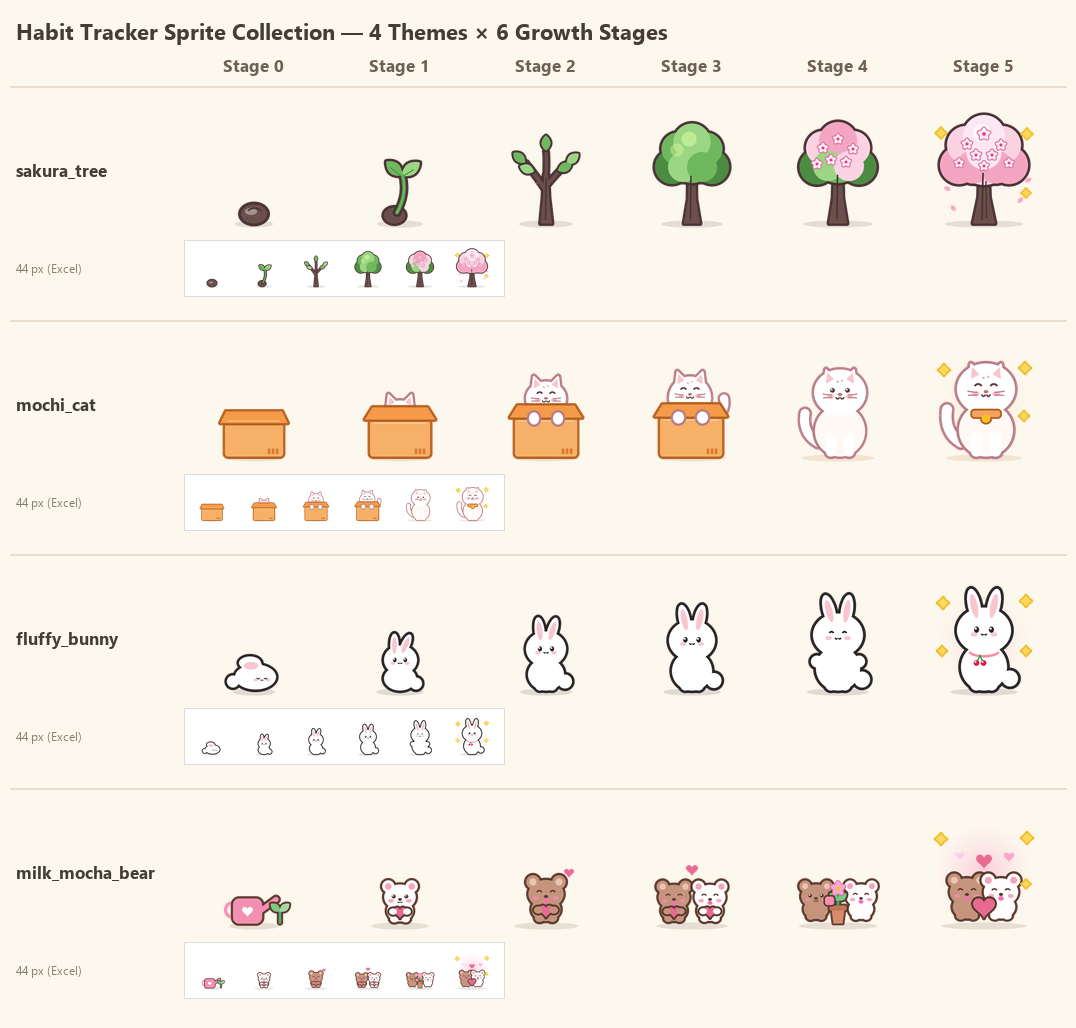
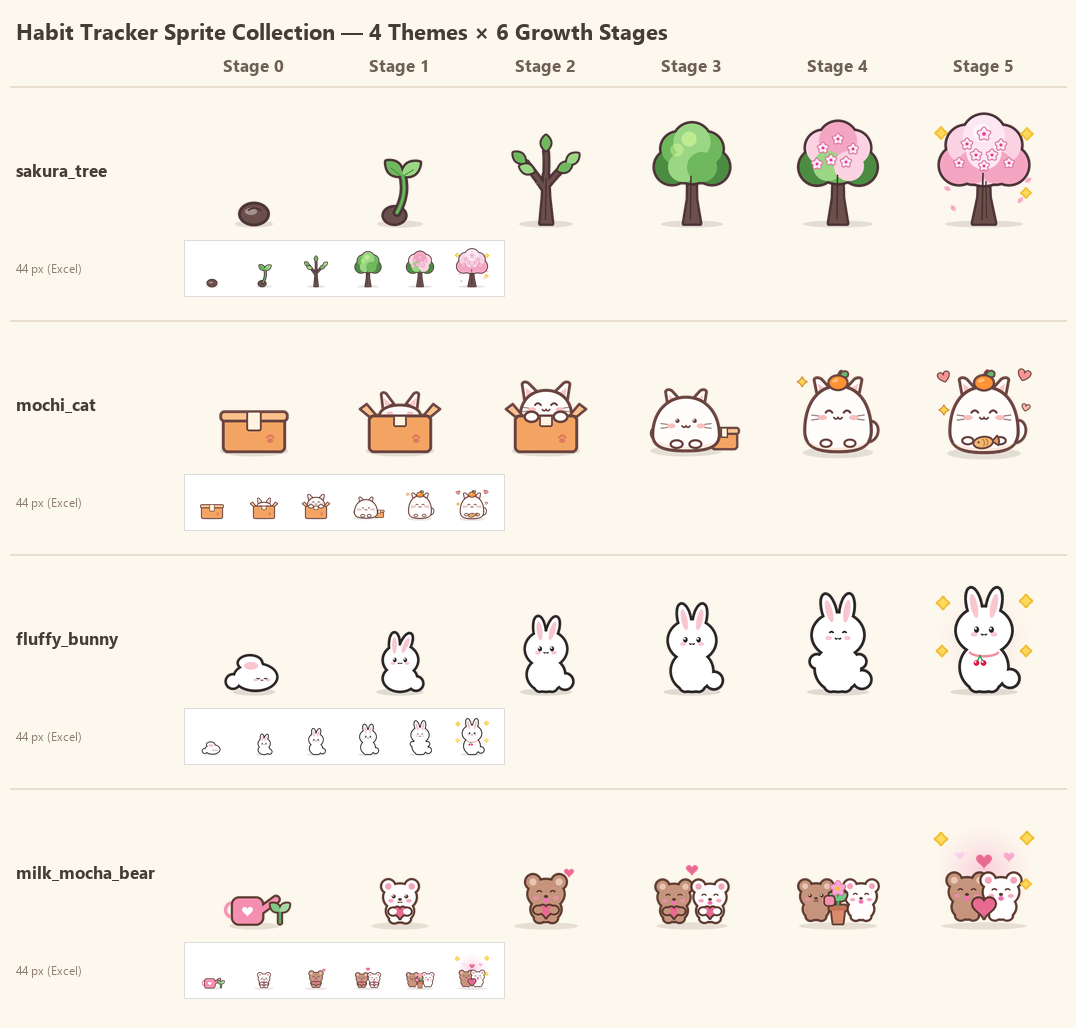
docs: unify v3.6 version strings, refresh stale contact sheets & mobile pet previews, sync installers

diff --git a/README.md b/README.md
@@ -1,7 +1,7 @@
 # 🐻 Habit Tracker Collection for Everyone — by Dyu (v3.6 Turbo — 35 Themes × 4 Editions)
 
 > **Bộ sưu tập 35 mẫu Habit Tracker thẩm mỹ chuẩn Digital Planner — Đủ 4 phiên bản cho Máy tính & Điện thoại (140 file hoàn chỉnh + 210 ảnh hoạt ảnh 6 giai đoạn)!**
-> **MỚI v3.6 TURBO: Tái kiến trúc hoàn toàn động cơ hiệu năng trên toàn bộ 35 file `Pro Interactive (.xlsm)` + tối ưu `google_sheets_1click_setup.gs` — thay thế 100% Camera Linked Pictures chậm chạp bằng Native Sprite Stacks nén 6 PNG duy nhất, chỉ mục `_Database` O(1) thuần VBA (Win & Mac), ghi mảng `.Value2` & Lazy-Flush! Đổi Tháng bằng nút 1 chạm chỉ ~51 ms (nhanh gấp 80×), đổi Ngày chỉ ~40 ms (nhanh gấp 68×), file nhẹ hơn ~30% (~317 KB) mà giữ trọn 100% độ nét & Bộ Hiệu Ứng Pro (Bounce, Sparkle Burst, Toast, Quick-Action Pills)!**
+> **MỚI v3.6 TURBO: Tái kiến trúc hoàn toàn động cơ hiệu năng trên toàn bộ 35 file `Pro Interactive (.xlsm)` + tối ưu `google_sheets_1click_setup.gs` — thay thế 100% Camera Linked Pictures bằng Native Sprite Stacks nén 6 PNG duy nhất, chỉ mục `_Database` O(1) thuần VBA (Win & Mac), ghi mảng `.Value2` & Lazy-Flush! Đổi Tháng bằng nút 1 chạm chỉ ~51 ms (nhanh gấp 80×), đổi Ngày chỉ ~40 ms (nhanh gấp 68×), bổ sung `Ctrl+Z` / nút `↩ Undo` thực thụ, khóa bảo vệ dòng công thức `TOTAL` (`UserInterfaceOnly`) & vẽ lại 36 sprite thú cưng siêu sắc nét (Shiba, Akita, Ginger Kitten, Royal Cat, Starlight Lavender Cat, Mochi Cat)!**
 
 ![Version 3.6 Turbo](https://img.shields.io/badge/Version-3.6_Turbo_35_Themes_x_4_Editions-E86A92?style=for-the-badge)
 ![Pro #1 Recommended](https://img.shields.io/badge/⭐_RECOMMENDED_%231-Pro_Interactive_.XLSM_Turbo_v3.6-217346?style=for-the-badge&logo=microsoftexcel&logoColor=white)
@@ -15,21 +15,22 @@
 
 Nếu bạn dùng **Microsoft Excel trên Windows hoặc macOS**, hãy chọn ngay **`[1] Pro Interactive (.xlsm)`** trong [`templates/pro_macro/`](templates/pro_macro/) để trải nghiệm tốc độ mượt như **App Desktop gốc** hoàn toàn 100% Offline:
 
-- **🚀 Động cơ v3.6 Turbo Performance Engine (Nhanh gấp 20×–80× so với v3.5!):**
-  - **Native Pre-Placed Sprite Stacks + Nén Đúng 6 PNG (`xl/media/`):** Bỏ hoàn toàn 54 Camera-Tool Linked Pictures gây giật lag GDI; thay bằng cụm ảnh PNG gốc siêu nét + bộ đệm so sánh thay đổi (`Stage-Diff Cache`) & tham chiếu Shape O(1) — dung lượng file thậm chí **nhẹ hơn ~30% (~257–347 KB)**!
+- **🚀 Động cơ v3.6 Turbo Performance Engine (Nhanh gấp 20×–80× so với cơ chế Linked Pictures cũ!):**
+  - **Native Pre-Placed Sprite Stacks + Nén Đúng 6 PNG (`xl/media/`):** Bỏ hoàn toàn 54 Camera-Tool Linked Pictures gây giật lag GDI; thay bằng cụm ảnh PNG gốc siêu nét + bộ đệm so sánh thay đổi (`Stage-Diff Cache`) & tham chiếu Shape O(1) — dung lượng file thậm chí **nhẹ hơn ~30% (~257–380 KB)**!
   - **Chỉ mục `_Database` O(1) thuần VBA (`Collection`, tương thích cả Windows & macOS Excel) + `.Value2` + Lazy-Flush:** Tick ô Checkbox **KHÔNG ghi `_Database`** (tự động flush khi đổi Tháng/Ngày/Năm, mở tab Tổng Kết Năm, hoặc Lưu/Đóng file!).
+  - **🛡 Hoàn tác `Ctrl+Z` Thực Thụ & Khóa Bảo Vệ Công Thức (`UserInterfaceOnly:=True`):** Giữ snapshot trước mỗi thao tác tick/kéo-fill để bấm **`Ctrl+Z`** hoặc nút **`↩ Undo`** khôi phục tức thì cả dữ liệu lẫn sprite; đồng thời khóa an toàn dòng `TOTAL • TỔNG KẾT` (Row 37) & toàn bộ ô công thức để kéo thả checkbox không bao giờ ghi đè hỏng công thức!
   - **Giữ nguyên tính năng tự đổi ảnh trong `_Assets`:** Chỉ cần dán 6 ảnh mới vào `_Assets!B2:B7` rồi bấm nút **`🔄 Đồng bộ 6 ảnh mới (SyncSprites)`** 1 chạm!
 - **🎉 Giữ nguyên 100% Bộ Hiệu Ứng Sống Động Pro (Bật/Tắt 1 chạm ngay trên sheet!):**
   1. **Hero Mascot Bounce (`PlayHeroBounce`):** Linh vật nảy nhẹ đầy hứng khởi mỗi khi đạt **100% Ngày**, hoàn thành **100% Nhiệm Vụ Ngày**, hoặc tick xong **Mục Tiêu Năm**!
   2. **Pastel Sparkle / Heart / Star Burst (`PlaySparkleBurst`):** Pháo hoa sao & trái tim phối đúng màu chủ đề bùng nổ quanh Hero khi chạm mốc **100% Perfect Day** hoặc chuỗi **7 / 14 / 21 / 30 ngày** (tự dọn 100% hình thừa — 0 rác!).
   3. **Floating Toast Banner (`ShowToast`):** Thông báo tiếng Việt góc trên-phải tái sử dụng O(1) & tự ẩn sau 2 giây (tuyệt đối không bật `MsgBox` chắn tay!).
-  4. **Nút Quick-Action Pastel 1 Chạm:** **`◀ Tháng` · `Tháng ▶` · `✨ FX: BẬT/TẮT`** ngay góc trái bảng Tracker, **`◀ Hôm qua` · `📅 Hôm nay` · `Ngày mai ▶`** trên `📝 Nhiệm Vụ Ngày`, nút **`🎉 Thử Hiệu Ứng Pro`** trên `📖 Hướng Dẫn`, và **`🔄 Đồng bộ 6 ảnh mới`** trên `_Assets`!
+  4. **Nút Quick-Action Pastel 1 Chạm:** **`◀ Tháng` · `Tháng ▶` · `✨ FX: BẬT/TẮT` · `↩ Undo`** ngay góc trái bảng Tracker, **`◀ Hôm qua` · `📅 Hôm nay` · `Ngày mai ▶`** trên `📝 Nhiệm Vụ Ngày`, nút **`🎉 Thử Hiệu Ứng Pro`** trên `📖 Hướng Dẫn`, và **`🔄 Đồng bộ 6 ảnh mới`** trên `_Assets`!
 
-### 📊 Benchmark Tốc Độ Thực Tế Excel COM (`BEFORE v3.5` vs `AFTER v3.6 Turbo`)
+### 📊 Benchmark Tốc Độ Thực Tế Excel COM (`Linked Pictures cũ` vs `v3.6 Turbo`)
 
 Đo thực tế trên Microsoft Excel (`EnableEvents = True`, `Calculation = Automatic`) bằng [`scripts/benchmark_pro_speed.py`](scripts/benchmark_pro_speed.py):
 
-| Thao tác thực tế | `01_Sunflower` v3.5 (Trước) | `01_Sunflower` v3.6 Turbo (Sau) | `35_Milk_Mocha` v3.5 (Trước) | `35_Milk_Mocha` v3.6 Turbo (Sau) | Tăng tốc |
+| Thao tác thực tế | `01_Sunflower` (Trước) | `01_Sunflower` **v3.6 Turbo** | `35_Milk_Mocha` (Trước) | `35_Milk_Mocha` **v3.6 Turbo** | Tăng tốc |
 |---|---:|---:|---:|---:|---:|
 | **1. Tick 1 ô Checkbox (`Monthly Tracker`)** | 347.3 ms | **42.7 ms** | 333.7 ms | **42.6 ms** | **~8× nhanh hơn** |
 | **2a. Đổi Tháng bằng Dropdown (`B3`)** | 4,137.1 ms | **141.6 ms** | 3,764.8 ms | **154.7 ms** | **~24–29× nhanh hơn** |
@@ -41,7 +42,7 @@ Nếu bạn dùng **Microsoft Excel trên Windows hoặc macOS**, hãy chọn ng
 
 ---
 
-## ⚡ Cài Đặt & Tải Nhanh Bằng 1 Dòng Lệnh (Interactive Installer v3.5)
+## ⚡ Cài Đặt & Tải Nhanh Bằng 1 Dòng Lệnh (Interactive Installer v3.6)
 
 Chạy **1 dòng lệnh duy nhất** — trình cài đặt dẫn bạn chọn đúng phiên bản theo thứ tự ưu tiên (`[1] Pro #1`, `[2] Excel Offline`, `[3] Google Sheets Desktop`, `[4] Mobile Portrait`) và chọn **35 mẫu phân nhóm sẵn** (`35`, `32-35`, `30,33,34,35`, hoặc `A` tải toàn bộ **35 mẫu**) vào thư mục `template/`:
 
@@ -63,14 +64,14 @@ curl -fsSL https://raw.githubusercontent.com/Thitrongdan202/Habit-tracker-for-ev
 
 | Thứ tự | Phiên bản | Thư mục | Số tab | Điểm nổi bật | Phù hợp với |
 |---|---|---|---|---|---|
-| **#1 ⭐** | **⚡ Pro Interactive (`.xlsm`)** *(Khuyên dùng #1)* | [`templates/pro_macro/`](templates/pro_macro/) | **5 tab** | **Turbo Engine & FX Suite v3.6** (Native Sprite Stacks 6 PNG siêu tốc ~51ms + Bounce + Sparkle Burst + Toast + Nút chuyển Tháng/Ngày 1 chạm + O(1) Lazy-Flush `_Database`) — 100% Offline! | **Excel Desktop (Windows & Mac)** — trải nghiệm đẹp, nhanh và mượt nhất! |
+| **#1 ⭐** | **⚡ Pro Interactive (`.xlsm`)** *(Khuyên dùng #1)* | [`templates/pro_macro/`](templates/pro_macro/) | **5 tab** | **Turbo Engine & FX Suite v3.6** (Native Sprite Stacks 6 PNG siêu tốc ~51ms + Bounce + Sparkle Burst + Toast + `Ctrl+Z` / `↩ Undo` + Khóa bảo vệ dòng công thức + O(1) Lazy-Flush `_Database`) — 100% Offline! | **Excel Desktop (Windows & Mac)** — trải nghiệm đẹp, nhanh và mượt nhất! |
 | **#2** | **✨ Excel Universal Offline (`.xlsx`)** | [`templates/excel_universal_offline/`](templates/excel_universal_offline/) | **5 tab** | **KHÔNG Macro / 0 cảnh báo bảo mật**, dùng **Form Control Checkboxes** ẩn sạch `TRUE/FALSE` (`;;;`), chạy mọi đời **Excel 2016–365 Win/Mac** + đủ 54 hoạt ảnh offline! | Máy công ty chặn Macro hoặc dùng Excel 2016/2019/2021 không cần VBA |
 | **#3** | **☁ Google Sheets Desktop (`.xlsx` + `.gs`)** | [`templates/google_sheets_edition/`](templates/google_sheets_edition/) | **5 tab** | Gọn 5 tab + `_Database` + hoạt ảnh `=IMAGE()` động. Chạy [`google_sheets_1click_setup.gs`](scripts/google_sheets_1click_setup.gs) 1 lần → **Checkbox Pastel & tự lưu từng Ngày + 12 Tháng** trên Cloud! | Dùng online trên trình duyệt & đồng bộ Google Drive |
 | **#4** | **📱 Mobile Portrait (`.xlsx` + `.gs`)** | [`templates/mobile_portrait_sheets/`](templates/mobile_portrait_sheets/) | **4 tab** | **Khổ dọc 8 cột `B:I` riêng cho iPhone/Android (0 cuộn ngang!)**, gồm tab **`📝 Việc Hôm Nay`**, ô tick lớn `38pt` dễ chạm ngón cái & tự lưu từng Tuần/Ngày! | Check-in thói quen & việc đột xuất 1 chạm ngay trên điện thoại |
 
 ---
 
-## 🎀 Showcase 4 Mẫu Mới Trong v3.5 (`#32` – `#35`)
+## 🎀 Showcase 4 Mẫu Signature (`#32` – `#35`)
 
 ### 35. 🐻 Milk & Mocha Bear Sweet Love — 5 Biểu Đồ Tròn Tuần + 1 Tổng Tháng
 ![Milk & Mocha Bear Sweet Love](previews/35_milk_mocha_tracker.png)
@@ -169,23 +170,23 @@ curl -fsSL https://raw.githubusercontent.com/Thitrongdan202/Habit-tracker-for-ev
 | **23** | 🐼 **Bamboo Panda Zen Garden** | [`_Pro.xlsm`](templates/pro_macro/23_Bamboo_Panda_Zen_Garden_Pro.xlsm) | [`.xlsx`](templates/excel_universal_offline/23_Bamboo_Panda_Zen_Garden.xlsx) | [Desktop](templates/google_sheets_edition/23_Bamboo_Panda_Zen_Garden.xlsx) | [📱 Mobile](templates/mobile_portrait_sheets/23_Bamboo_Panda_Zen_Garden_Mobile.xlsx) |
 | **24** | 👑 **Royal Cat Saving Cash** | [`_Pro.xlsm`](templates/pro_macro/24_Royal_Cat_Saving_Cash_Pro.xlsm) | [`.xlsx`](templates/excel_universal_offline/24_Royal_Cat_Saving_Cash.xlsx) | [Desktop](templates/google_sheets_edition/24_Royal_Cat_Saving_Cash.xlsx) | [📱 Mobile](templates/mobile_portrait_sheets/24_Royal_Cat_Saving_Cash_Mobile.xlsx) |
 | **25** | 🐱 **Ginger Kitten Basket Routine** | [`_Pro.xlsm`](templates/pro_macro/25_Ginger_Kitten_Basket_Routine_Pro.xlsm) | [`.xlsx`](templates/excel_universal_offline/25_Ginger_Kitten_Basket_Routine.xlsx) | [Desktop](templates/google_sheets_edition/25_Ginger_Kitten_Basket_Routine.xlsx) | [📱 Mobile](templates/mobile_portrait_sheets/25_Ginger_Kitten_Basket_Routine_Mobile.xlsx) |
-| **26** | 💜 **Pastel Purple Royal Cat** | [`_Pro.xlsm`](templates/pro_macro/26_Pastel_Purple_Royal_Cat_Pro.xlsm) | [`.xlsx`](templates/excel_universal_offline/26_Pastel_Purple_Royal_Cat.xlsx) | [Desktop](templates/google_sheets_edition/26_Pastel_Purple_Royal_Cat.xlsx) | [📱 Mobile](templates/mobile_portrait_sheets/26_Pastel_Purple_Royal_Cat_Mobile.xlsx) |
+| **26** | 🌙 **Pastel Purple Starlight Cat** *(Trăng Khuyết & Mũ Nồi Sao)* | [`_Pro.xlsm`](templates/pro_macro/26_Pastel_Purple_Royal_Cat_Pro.xlsm) | [`.xlsx`](templates/excel_universal_offline/26_Pastel_Purple_Royal_Cat.xlsx) | [Desktop](templates/google_sheets_edition/26_Pastel_Purple_Royal_Cat.xlsx) | [📱 Mobile](templates/mobile_portrait_sheets/26_Pastel_Purple_Royal_Cat_Mobile.xlsx) |
 | **27** | 🐣 **Hatching Chick Icon Studio** | [`_Pro.xlsm`](templates/pro_macro/27_Hatching_Chick_Icon_Studio_Pro.xlsm) | [`.xlsx`](templates/excel_universal_offline/27_Hatching_Chick_Icon_Studio.xlsx) | [Desktop](templates/google_sheets_edition/27_Hatching_Chick_Icon_Studio.xlsx) | [📱 Mobile](templates/mobile_portrait_sheets/27_Hatching_Chick_Icon_Studio_Mobile.xlsx) |
 | **28** | 🍬 **Cotton Candy Jar Sweet** | [`_Pro.xlsm`](templates/pro_macro/28_Cotton_Candy_Jar_Sweet_Pro.xlsm) | [`.xlsx`](templates/excel_universal_offline/28_Cotton_Candy_Jar_Sweet.xlsx) | [Desktop](templates/google_sheets_edition/28_Cotton_Candy_Jar_Sweet.xlsx) | [📱 Mobile](templates/mobile_portrait_sheets/28_Cotton_Candy_Jar_Sweet_Mobile.xlsx) |
 | **29** | 🌹 **Watercolor Rose Bouquet** | [`_Pro.xlsm`](templates/pro_macro/29_Watercolor_Rose_Bouquet_Pro.xlsm) | [`.xlsx`](templates/excel_universal_offline/29_Watercolor_Rose_Bouquet.xlsx) | [Desktop](templates/google_sheets_edition/29_Watercolor_Rose_Bouquet.xlsx) | [📱 Mobile](templates/mobile_portrait_sheets/29_Watercolor_Rose_Bouquet_Mobile.xlsx) |
-| **30** | 🐕 **Shiba Inu Happy Bork** | [`_Pro.xlsm`](templates/pro_macro/30_Shiba_Inu_Happy_Bork_Pro.xlsm) | [`.xlsx`](templates/excel_universal_offline/30_Shiba_Inu_Happy_Bork.xlsx) | [Desktop](templates/google_sheets_edition/30_Shiba_Inu_Happy_Bork.xlsx) | [📱 Mobile](templates/mobile_portrait_sheets/30_Shiba_Inu_Happy_Bork_Mobile.xlsx) |
-| **31** | ❄ **Akita Inu Snow Loyal** | [`_Pro.xlsm`](templates/pro_macro/31_Akita_Inu_Snow_Loyal_Pro.xlsm) | [`.xlsx`](templates/excel_universal_offline/31_Akita_Inu_Snow_Loyal.xlsx) | [Desktop](templates/google_sheets_edition/31_Akita_Inu_Snow_Loyal.xlsx) | [📱 Mobile](templates/mobile_portrait_sheets/31_Akita_Inu_Snow_Loyal_Mobile.xlsx) |
-| **32** | 🌸 **Sakura Blossom Minimalist** *(Mới v3.5!)* | [`_Pro.xlsm`](templates/pro_macro/32_Sakura_Blossom_Minimalist_Pro.xlsm) | [`.xlsx`](templates/excel_universal_offline/32_Sakura_Blossom_Minimalist.xlsx) | [Desktop](templates/google_sheets_edition/32_Sakura_Blossom_Minimalist.xlsx) | [📱 Mobile](templates/mobile_portrait_sheets/32_Sakura_Blossom_Minimalist_Mobile.xlsx) |
-| **33** | 🐱 **Peach Mochi Cat Mood Suite** *(Mới v3.5!)* | [`_Pro.xlsm`](templates/pro_macro/33_Peach_Mochi_Cat_Mood_Suite_Pro.xlsm) | [`.xlsx`](templates/excel_universal_offline/33_Peach_Mochi_Cat_Mood_Suite.xlsx) | [Desktop](templates/google_sheets_edition/33_Peach_Mochi_Cat_Mood_Suite.xlsx) | [📱 Mobile](templates/mobile_portrait_sheets/33_Peach_Mochi_Cat_Mood_Suite_Mobile.xlsx) |
-| **34** | 🐰 **Fluffy Bunny Sticker Pop** *(Mới v3.5!)* | [`_Pro.xlsm`](templates/pro_macro/34_Fluffy_Bunny_Sticker_Pop_Pro.xlsm) | [`.xlsx`](templates/excel_universal_offline/34_Fluffy_Bunny_Sticker_Pop.xlsx) | [Desktop](templates/google_sheets_edition/34_Fluffy_Bunny_Sticker_Pop.xlsx) | [📱 Mobile](templates/mobile_portrait_sheets/34_Fluffy_Bunny_Sticker_Pop_Mobile.xlsx) |
-| **35** | 🐻 **Milk & Mocha Bear Sweet Love** *(Mới v3.5!)* | [`_Pro.xlsm`](templates/pro_macro/35_Milk_Mocha_Bear_Sweet_Love_Pro.xlsm) | [`.xlsx`](templates/excel_universal_offline/35_Milk_Mocha_Bear_Sweet_Love.xlsx) | [Desktop](templates/google_sheets_edition/35_Milk_Mocha_Bear_Sweet_Love.xlsx) | [📱 Mobile](templates/mobile_portrait_sheets/35_Milk_Mocha_Bear_Sweet_Love_Mobile.xlsx) |
+| **30** | 🐕 **Shiba Inu Happy Bork** *(Khăn Đỏ Karakusa & Xương Vàng)* | [`_Pro.xlsm`](templates/pro_macro/30_Shiba_Inu_Happy_Bork_Pro.xlsm) | [`.xlsx`](templates/excel_universal_offline/30_Shiba_Inu_Happy_Bork.xlsx) | [Desktop](templates/google_sheets_edition/30_Shiba_Inu_Happy_Bork.xlsx) | [📱 Mobile](templates/mobile_portrait_sheets/30_Shiba_Inu_Happy_Bork_Mobile.xlsx) |
+| **31** | ❄ **Akita Inu Snow Loyal** *(Tuyết Trắng & Vòng Chuông Shimenawa)* | [`_Pro.xlsm`](templates/pro_macro/31_Akita_Inu_Snow_Loyal_Pro.xlsm) | [`.xlsx`](templates/excel_universal_offline/31_Akita_Inu_Snow_Loyal.xlsx) | [Desktop](templates/google_sheets_edition/31_Akita_Inu_Snow_Loyal.xlsx) | [📱 Mobile](templates/mobile_portrait_sheets/31_Akita_Inu_Snow_Loyal_Mobile.xlsx) |
+| **32** | 🌸 **Sakura Blossom Minimalist** *(Signature)* | [`_Pro.xlsm`](templates/pro_macro/32_Sakura_Blossom_Minimalist_Pro.xlsm) | [`.xlsx`](templates/excel_universal_offline/32_Sakura_Blossom_Minimalist.xlsx) | [Desktop](templates/google_sheets_edition/32_Sakura_Blossom_Minimalist.xlsx) | [📱 Mobile](templates/mobile_portrait_sheets/32_Sakura_Blossom_Minimalist_Mobile.xlsx) |
+| **33** | 🐱 **Peach Mochi Cat Mood Suite** *(Bánh Nếp, Quýt Mikan & Taiyaki)* | [`_Pro.xlsm`](templates/pro_macro/33_Peach_Mochi_Cat_Mood_Suite_Pro.xlsm) | [`.xlsx`](templates/excel_universal_offline/33_Peach_Mochi_Cat_Mood_Suite.xlsx) | [Desktop](templates/google_sheets_edition/33_Peach_Mochi_Cat_Mood_Suite.xlsx) | [📱 Mobile](templates/mobile_portrait_sheets/33_Peach_Mochi_Cat_Mood_Suite_Mobile.xlsx) |
+| **34** | 🐰 **Fluffy Bunny Sticker Pop** *(Signature)* | [`_Pro.xlsm`](templates/pro_macro/34_Fluffy_Bunny_Sticker_Pop_Pro.xlsm) | [`.xlsx`](templates/excel_universal_offline/34_Fluffy_Bunny_Sticker_Pop.xlsx) | [Desktop](templates/google_sheets_edition/34_Fluffy_Bunny_Sticker_Pop.xlsx) | [📱 Mobile](templates/mobile_portrait_sheets/34_Fluffy_Bunny_Sticker_Pop_Mobile.xlsx) |
+| **35** | 🐻 **Milk & Mocha Bear Sweet Love** *(Signature)* | [`_Pro.xlsm`](templates/pro_macro/35_Milk_Mocha_Bear_Sweet_Love_Pro.xlsm) | [`.xlsx`](templates/excel_universal_offline/35_Milk_Mocha_Bear_Sweet_Love.xlsx) | [Desktop](templates/google_sheets_edition/35_Milk_Mocha_Bear_Sweet_Love.xlsx) | [📱 Mobile](templates/mobile_portrait_sheets/35_Milk_Mocha_Bear_Sweet_Love_Mobile.xlsx) |
 
 ---
 
-## 🎨 Giao Diện Pro v3.5 Thực Tế (`01_Sunflower` + Bộ Sưu Tập `#01`–`#31`)
+## 🎨 Giao Diện Pro v3.6 Thực Tế (`01_Sunflower` + Bộ Sưu Tập `#01`–`#31`)
 
-![Sunflower Pro v3.5 Tracker](previews/01_sunflower_tracker.png)
-![Sunflower Pro v3.5 Guide](previews/01_sunflower_guide.png)
+![Sunflower Pro v3.6 Tracker](previews/01_sunflower_tracker.png)
+![Sunflower Pro v3.6 Guide](previews/01_sunflower_guide.png)
 
 <details>
 <summary>🌻 Mở rộng xem ảnh chụp 31 mẫu cổ điển & linh vật (#02 – #31)</summary>
@@ -216,7 +217,7 @@ curl -fsSL https://raw.githubusercontent.com/Thitrongdan202/Habit-tracker-for-ev
 | **23. 🐼 Bamboo Panda Zen Garden** | ![Bamboo Panda](previews/23_bamboo_panda_tracker.png) |
 | **24. 👑 Royal Cat Saving Cash** | ![Royal Cat](previews/24_royal_cat_cash_tracker.png) |
 | **25. 🐱 Ginger Kitten Basket** | ![Ginger Kitten](previews/25_ginger_kitten_tracker.png) |
-| **26. 💜 Pastel Purple Royal Cat** | ![Purple Cat](previews/26_purple_cat_tracker.png) |
+| **26. 🌙 Pastel Purple Starlight Cat** | ![Starlight Lavender Cat](previews/26_purple_cat_tracker.png) |
 | **27. 🐣 Hatching Chick Studio** | ![Hatching Chick](previews/27_hatching_chick_tracker.png) |
 | **28. 🍬 Cotton Candy Jar Sweet** | ![Candy Jar](previews/28_candy_jar_tracker.png) |
 | **29. 🌹 Watercolor Rose Bouquet** | ![Rose Bouquet](previews/29_rose_bouquet_tracker.png) |
@@ -227,9 +228,12 @@ curl -fsSL https://raw.githubusercontent.com/Thitrongdan202/Habit-tracker-for-ev
 
 ---
 
-## 🎭 Bộ 210 Ảnh Hoạt Ảnh 6 Giai Đoạn (`assets/` — 35 Chủ Đề)
+## 🎭 Bộ 210 Ảnh Hoạt Ảnh 6 Giai Đoạn (`assets/` — 35 Chủ Đề, v3.6 Vector Kawaii)
 
-### Batch 4 (Chủ đề `#32`–`#35` — 24 Sprites Mới v3.5!)
+### Bộ 6 Thú Cưng Vẽ Lại Chuẩn Kawaii Vector Bézier (`#24`, `#25`, `#26`, `#30`, `#31`, `#33`)
+![36 Overhauled Pet Sprites Contact Sheet](previews/assets_contact_sheet_pets_overhaul.png)
+
+### Batch 4 (Chủ đề `#32`–`#35` — 24 Sprites Signature)
 ![24 Sprites Contact Sheet Batch 4](previews/assets_contact_sheet_batch4.png)
 
 <details>
@@ -243,7 +247,7 @@ curl -fsSL https://raw.githubusercontent.com/Thitrongdan202/Habit-tracker-for-ev
 
 ---
 
-## ☁ Kích Hoạt Google Sheets Trong 10 Giây (1-Click Setup)
+## ☁ Kích Hoạt Google Sheets Trong 10 Giây (1-Click Setup v3.6)
 
 1. Tải mẫu từ [`templates/google_sheets_edition/`](templates/google_sheets_edition/) hoặc [`templates/mobile_portrait_sheets/`](templates/mobile_portrait_sheets/) lên Google Drive → **Mở bằng Google Sheets** → **Tệp → Lưu dưới dạng Google Trang tính**.
 2. Chọn **Tiện ích mở rộng (Extensions) → Apps Script** → dán toàn bộ code trong [`scripts/google_sheets_1click_setup.gs`](scripts/google_sheets_1click_setup.gs) → **Lưu (`Ctrl+S`)** → bấm **Run `setupHabitTracker`**.
@@ -252,17 +256,17 @@ Xem thêm hướng dẫn tại [`docs/GOOGLE_SHEETS_GUIDE.md`](docs/GOOGLE_SHEET
 
 ---
 
-## 🛠 Dành Cho Developer (Build & QA v3.5)
+## 🛠 Dành Cho Developer (Build & QA v3.6)
 
 ```powershell
-# Build theo lô (tự recycle Excel COM mỗi 4-5 file):
-python scripts/build_v30_batch.py --start 32 --end 35
-
-# Upgrade riêng toàn bộ 35 Pro (.xlsm) sang FX Engine v3.5:
+# Build Pro Interactive (.xlsm) theo lô với Turbo Engine v3.6 (tự recycle Excel COM mỗi 5 file):
 python scripts/excel_com_enhancer.py pro --start 1 --end 5
 
-# Chạy bộ QA tự động v3.5 trên toàn bộ 35 Pro + 4 mẫu mới (tĩnh + live FX COM cô lập):
-python scripts/qa_verify_v35.py
+# Đo benchmark tốc độ thực tế Excel COM trên bản Pro v3.6:
+python scripts/benchmark_pro_speed.py
+
+# Chạy bộ QA tự động v3.6 trên toàn bộ 35 file Pro (tĩnh + live COM + Ctrl+Z Undo & Protection):
+python scripts/qa_verify_v36.py
 ```
 
 ---

diff --git a/docs/CUSTOMIZATION_GUIDE.md b/docs/CUSTOMIZATION_GUIDE.md
@@ -1,4 +1,4 @@
-# 🎨 Hướng Dẫn Tùy Biến Nâng Cao — Version 2.0 (Universal Offline Excel Edition)
+# 🎨 Hướng Dẫn Tùy Biến Nâng Cao — Habit Tracker Collection (v3.6)
 
 ---
 
@@ -7,19 +7,24 @@
 2. Quét chọn toàn bộ vùng ô tick từ **`C17:AG36`** (hoặc bấm `Ctrl + G` → gõ `C17:AG36` → `Enter`).
 3. Nhấn phím **`Delete`** (trên Mac: `fn + Backspace`).
 4. Toàn bộ ô Checkbox lập tức trở về trạng thái chưa tick, biểu tượng hoạt ảnh về Stage 0, còn **100% công thức, màu sắc & biểu đồ được giữ nguyên vẹn**!
+   - Trên bản **Pro Interactive (`.xlsm` v3.6)**: Nếu lỡ tay xóa hoặc kéo-fill nhầm, bấm ngay **`Ctrl + Z`** hoặc nút **`↩ Undo`** ở góc trái trên để khôi phục lập tức! Dòng công thức `TOTAL • TỔNG KẾT` (Row 37) được khóa bảo vệ tự động (`UserInterfaceOnly:=True`) nên không bao giờ bị ghi đè.
 
 ---
 
 ## 2. Tự đổi bộ ảnh hoạt ảnh 6 giai đoạn (Custom Animation)
 
-### ⭐ Trên bản Excel Offline Mọi Máy (`templates/excel_universal_offline/`) — KHÔNG cần link, KHÔNG cần Internet!
-1. Chuột phải vào tên bất kỳ tab nào ở thanh dưới cùng → chọn **Unhide (Hiện trang tính)** → chọn sheet **`_Assets`** → bấm **OK**.
-2. Bạn sẽ thấy 6 ô trắng **`B2:B7`** tương ứng với **Stage 0 → Stage 5** (ô `B8` để trắng để ẩn ngày thừa cuối tháng — giữ nguyên `B8`!).
-3. Xóa 6 hình mẫu cũ và dùng **Insert → Pictures** dán 6 ảnh PNG/sticker bất kỳ của riêng bạn vào đúng giữa 6 ô **`B2` → `B7`**.
-4. Chuột phải vào tab **`_Assets`** → **Hide** để ẩn lại.
-5. Quay lại tab Tracker: **toàn bộ 31 ngày + Hero icon + 6 ô xem trước trên trang Hướng Dẫn đã tự động đổi sang bộ ảnh mới của bạn!**
+### ⭐ Trên bản Pro Interactive (`.xlsm` v3.6 Turbo — `templates/pro_macro/`)
+1. Chuột phải vào bất kỳ tên tab nào ở thanh dưới cùng → chọn **Unhide (Hiện trang tính)** → chọn sheet **`_Assets`** → bấm **OK**.
+2. Dán 6 ảnh PNG/sticker của riêng bạn vào 6 ô **`B2:B7`** (tương ứng **Stage 0 → Stage 5**).
+3. Bấm nút **`🔄 Đồng bộ 6 ảnh mới (SyncSprites)`** ngay trên sheet `_Assets` → toàn bộ 31 ngày, Hero icon, Daily Tasks, Yearly Goals & 12 tháng Tổng Kết tự động cập nhật sang bộ ảnh mới chỉ trong 1 giây!
+4. Chuột phải tab **`_Assets`** → **Hide** để ẩn lại.
 
-### ☁ Trên bản Google Sheets & Excel 365 (`templates/google_sheets_and_excel365/`)
+### ✨ Trên bản Excel Universal Offline (`.xlsx` — `templates/excel_universal_offline/`) — KHÔNG Macro, KHÔNG cần Internet!
+1. Chuột phải vào tên bất kỳ tab nào → **Unhide** → chọn sheet **`_Assets`** → bấm **OK**.
+2. Thay 6 ảnh mẫu trong 6 ô **`B2:B7`** (giữ nguyên ô `B8` để trắng để ẩn ngày thừa cuối tháng!).
+3. Ẩn lại sheet **`_Assets`** → toàn bộ 54 Linked Pictures (31 ngày + Hero + Yearly + Annual) tự động hiển thị bộ ảnh mới của bạn!
+
+### ☁ Trên bản Google Sheets Desktop & Mobile Portrait (`templates/google_sheets_edition/` & `templates/mobile_portrait_sheets/`)
 1. Chuẩn bị 6 file PNG đặt tên `stage_0.png` .. `stage_5.png` trên thư mục GitHub/CDN public.
 2. Mở tab **`📖 Hướng Dẫn`** → dán đường dẫn thư mục gốc (kết thúc bằng `/`) vào ô màu vàng **`CFG_IMG_BASE`**.
 
@@ -34,12 +39,12 @@ Trên tab **`📖 Hướng Dẫn`**, bạn có thể sửa trực tiếp 3 ô ng
 ---
 
 ## 4. Thêm thói quen mới mà KHÔNG hỏng công thức
-- **Dòng 1–12 (`B17:B28`):** Đã gắn sẵn 372 Form Control Checkboxes — chỉ cần sửa/gõ tên thói quen ở cột `B`.
-- **Dòng 13–20 (`B29:B36`):** Đã nối sẵn công thức `GOAL`, `DONE`, `PROGRESS`, `CURRENT STREAK`, `LONGEST STREAK` (trên sheet ẩn `_Calc`) kèm dropdown chọn **`✓`** — chỉ cần gõ tên thói quen và dùng ngay!
+- Toàn bộ **20 dòng thói quen (`B17:B36`)** đã gắn sẵn 620 ô Checkbox (Excel Native Checkbox trên Pro `.xlsm` / Form Control Checkbox ẩn `;;;` trên Offline `.xlsx`) và nối sẵn công thức `GOAL`, `DONE`, `PROGRESS`, `CURRENT STREAK`, `LONGEST STREAK`!
+- Chỉ cần gõ trực tiếp tên thói quen mới vào cột **`B`** (`B17:B36`) và nhập mục tiêu ở cột **`AI`** (`AI17:AI36`).
 - Để xóa thói quen không dùng: chọn ô tên trong cột `B` → bấm **`Delete`** (không bấm *Delete Row*).
 
 ---
 
-## 5. Đổi Tháng / Năm & Nhân bản sang tháng mới
-1. Nhấn trực tiếp vào 2 ô pill màu riêng biệt ở góc trên bên trái bảng Tracker: **Tháng (`B3`)** và **Năm (`B5`)** → chọn từ danh sách thả xuống (tương thích mọi cài đặt ngôn ngữ/vùng miền trên Windows & Mac). Toàn bộ số ngày (28 / 29 năm nhuận / 30 / 31) và thứ (`Mon–Sun`) tự nhảy chuẩn xác!
-2. Để tạo tháng mới: Chuột phải vào tab Tracker → **Move or Copy...** → tick **☑ Create a copy** → đổi tên tab → đổi Tháng ở `B3` → reset vùng `C17:AG36` bằng phím `Delete`.
+## 5. Đổi Tháng / Năm & Lưu Lịch Sử Đa Tháng
+- **Bản Pro Interactive (`.xlsm` v3.6):** Nhấn nút **`◀ Tháng` / `Tháng ▶`** hoặc chọn dropdown **Tháng (`B3`)** / **Năm (`B5`)** — dữ liệu tháng cũ tự động lưu vào `_Database` và tháng mới mở ra siêu tốc (~51 ms)! Tương tự với **`📝 Nhiệm Vụ Ngày`** (nút `◀ Hôm qua` · `📅 Hôm nay` · `Ngày mai ▶`) và **`🎯 Yearly Goals & Habits`** (`I2`).
+- **Bản Excel Universal Offline (`.xlsx`):** Đổi Tháng (`B3`) & Năm (`B5`) để tự nhảy lịch 28/29/30/31 ngày. Để sang tháng mới mà vẫn giữ dữ liệu cũ: chuột phải tab Tracker → **Move or Copy...** → tick **☑ Create a copy** → đổi Tháng ở `B3` → reset vùng `C17:AG36` bằng phím `Delete`.

diff --git a/docs/GOOGLE_SHEETS_GUIDE.md b/docs/GOOGLE_SHEETS_GUIDE.md
@@ -1,8 +1,8 @@
-# ☁ Hướng Dẫn Sử Dụng Google Sheets — Desktop & Điện Thoại Khổ Dọc (v2.3)
+# ☁ Hướng Dẫn Sử Dụng Google Sheets — Desktop & Điện Thoại Khổ Dọc (v3.6)
 
-> **1 Script duy nhất tự nhận diện cả 2 bản Cloud:**
-> - **Bản Desktop (`templates/google_sheets_edition/`):** Gọn 4 tab, lịch tháng 31 ngày + lưu 12 tháng vào `_Database`.
-> - **Bản Điện Thoại Khổ Dọc (`templates/mobile_portrait_sheets/`):** Gọn 3 tab (`📱 Tuần Này`, `🎯 Mục Tiêu & Thành Tựu`, `📖 Hướng Dẫn`), vừa khít chiều dọc iPhone/Android **0 cuộn ngang**, ô tick lớn `38pt` dễ bấm bằng ngón cái + tự lưu từng Tuần (`YYYY-MM-W#`) vào `_Database`!
+> **1 Script duy nhất (`google_sheets_1click_setup.gs` v3.6 Turbo) tự nhận diện cả 2 bản Cloud:**
+> - **Bản Desktop (`templates/google_sheets_edition/`):** Gọn 5 tab (`📖 Hướng Dẫn`, `Monthly Tracker`, `📝 Nhiệm Vụ Ngày`, `🎯 Yearly Goals & Habits`, `🏆 Tổng Kết & Thành Tựu Năm`), lịch tháng 31 ngày + lưu tự động O(1) từng Ngày & 12 Tháng vào `_Database`.
+> - **Bản Điện Thoại Khổ Dọc (`templates/mobile_portrait_sheets/`):** Gọn 4 tab (`📱 Tuần Này`, `📝 Việc Hôm Nay`, `🎯 Mục Tiêu & Thành Tựu`, `📖 Hướng Dẫn`), vừa khít chiều dọc iPhone/Android **0 cuộn ngang**, ô tick lớn `38pt` dễ bấm bằng ngón cái + tự lưu từng Tuần (`YYYY-MM-W#`) & từng Ngày (`YYYY-MM-DD`) vào `_Database`!
 
 ---
 
@@ -30,8 +30,8 @@
 ## 💻 Cách Thủ Công 3 Giây (Không Cần Apps Script)
 
 Nếu không muốn dùng Apps Script:
-- **Bản Mobile Portrait:** Chọn vùng ô `C21:I35` trên tab `📱 Tuần Này` (và `B11:B22` trên `🎯 Mục Tiêu & Thành Tựu`) → menu **Chèn (Insert) → Hộp kiểm (Checkbox)**.
-- **Bản Desktop:** Chọn vùng ô `C17:AG36` trên `Monthly Tracker` (và `B6:B25` trên `🎯 Yearly Goals & Habits`) → **Chèn (Insert) → Hộp kiểm (Checkbox)**.
+- **Bản Mobile Portrait:** Chọn vùng ô `C21:I35` trên `📱 Tuần Này`, `B16:B30` trên `📝 Việc Hôm Nay`, và `B11:B22` trên `🎯 Mục Tiêu & Thành Tựu` → menu **Chèn (Insert) → Hộp kiểm (Checkbox)**.
+- **Bản Desktop:** Chọn vùng ô `C17:AG36` trên `Monthly Tracker`, `B9:B28` trên `📝 Nhiệm Vụ Ngày`, và `B6:B25` trên `🎯 Yearly Goals & Habits` → **Chèn (Insert) → Hộp kiểm (Checkbox)**.
 
 ---
 
